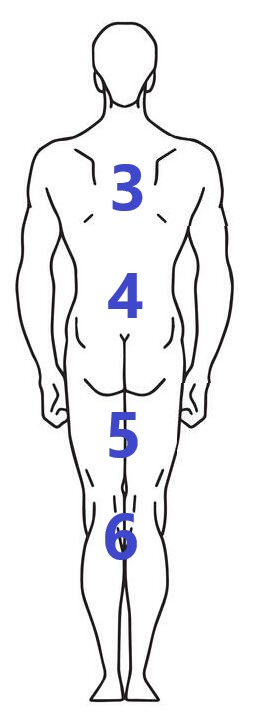
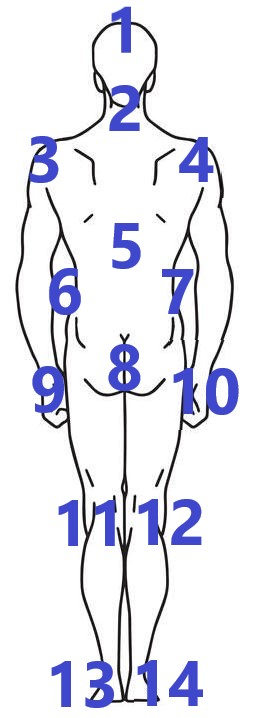
implement multi body diagrams in chatbot

diff --git a/site/chatbot/MessageParser.js b/site/chatbot/MessageParser.js
@@ -4,48 +4,95 @@ class MessageParser {
     constructor(actionProvider, state) {
       this.actionProvider = actionProvider;
       this.state = state;
+      this.errorState = ''
+      this.resultArr = []
+      this.maxResponse = { front: 16, back: 14, left: 8, right: 8 }
+    }
+
+    checkBadInput(message) {
+      if (message.toLowerCase() === 'n') {
+        this.resultArr = []
+      } else {
+        let points = message.replace(/\s+/g, '')
+        let re = /^(\d+(,\d+)*)?$/gm
+        if (!points.match(re)) {
+          this.errorState = 'BadInput'
+        } else {
+          let pointsArr = []
+          let isInvalid = false
+          points.split(',').forEach(point => {
+            let parsed = parseInt(point)
+            if (parsed >= 1 && parsed <= this.maxResponse[this.state.bodyPart]) {
+              pointsArr.push(parsed)
+            } else {
+              isInvalid = true
+            }
+          })
+          if (isInvalid) {
+            this.errorState = 'InvalidInput'
+          } else {
+            this.resultArr = pointsArr
+          }
+        }
+      }
+    }
+
+    postResult() {
+      this.state.painpoints.push(this.resultArr)
+      console.log('resultArray: ', this.state.painpoints)
+      axios['post'](`/api/engine/painanalysis`, { 
+        muscleache: this.state.muscleache,
+        needlesensation: this.state.needlesensation,
+        burningsensation: this.state.burningsensation,
+        numbsensation: this.state.numbsensation,
+        painpositions: this.state.painpoints
+      })
+      .then(response => {
+        if (response.statusText === 'OK') {
+          this.actionProvider.handlePainResult(response.data)
+        } else {
+          this.actionProvider.handleNoResult()
+        }
+      })
+      this.actionProvider.handleGoodbye()
+    }
+
+    takeAction(lastQuestion) {
+      if (this.errorState === 'BadInput') {
+        this.actionProvider.handleBadInput()
+      } else if (this.errorState === 'InvalidInput') {
+        this.actionProvider.handleInvalidInput()
+      } else if (!lastQuestion) {
+        let nextPart = 'front'
+        switch (this.state.step) {
+          case 6:
+            nextPart = 'back'
+            break
+          case 7:
+            nextPart = 'left'
+            break
+          case 8:
+            nextPart = 'right'
+            break
+          default:
+            break
+        }
+        this.actionProvider.handleNextDiagram(nextPart, this.resultArr)
+      } else {
+        this.postResult()
+      }
     }
   
     parse(message) {
       if (!this.state.userId) {
         this.actionProvider.handleUnauthenticated()
-      } else if (this.state.step >= 6) {
-        let points = message.replace(/\s+/g, '')
-        let re = /^(\d+(,\d+)*)?$/gm
-        if (!points.match(re)) {
-          this.actionProvider.handleBadInput()
-        } else {
-          let pointsArr = []
-          let invalid = false
-          points.split(',').forEach(point => {
-            let parsed = parseInt(point)
-            if (parsed >= 1 && parsed <= 10) {
-              pointsArr.push(parsed)
-            } else {
-              invalid = true
-            }
-          })
-          if (invalid) {
-            this.actionProvider.handleInvalidInput()
-          } else {
-            axios['post'](`/api/engine/painanalysis`, { 
-              muscleache: this.state.muscleache,
-              needlesensation: this.state.needlesensation,
-              burningsensation: this.state.burningsensation,
-              numbsensation: this.state.numbsensation,
-              spinalpos: pointsArr.some(r => [3,4].includes(r))
-            })
-            .then(response => {
-              if (response.statusText === 'OK') {
-                this.actionProvider.handlePainResult(response.data)
-              } else {
-                this.actionProvider.handleNoResult()
-              }
-            })
-            this.actionProvider.handleGoodbye()
-          }
-        }      
-      } 
+      } else if (this.state.step >= 6 && this.state.step < 9) {
+        this.checkBadInput(message)
+        this.takeAction(false)
+      } else {
+        this.checkBadInput(message)
+        this.takeAction(true)
+      }
     }
 }
 

diff --git a/site/chatbot/ActionProvider.js b/site/chatbot/ActionProvider.js
@@ -6,23 +6,37 @@ class ActionProvider {
     this.stateRef = stateRef;
   }
 
-  setChatbotMessage = (message, newstate) => {
+  setChatbotMessage = (message, newstate, isError=false) => {
       let stateKey = Object.keys(newstate).length === 1 ? Object.keys(newstate)[0] : null
       let stateValue = Object.values(newstate).length === 1 ? Object.values(newstate)[0] : null
-      if (stateKey && stateValue) {
-        this.setState((state) => ({
-          ...state,
-          [stateKey]: stateValue,
-          step: state.step + 1,
-          messages: [...state.messages, message]
-        }))
+      if (!isError) {
+        if (stateKey && stateValue) {
+          this.setState((state) => ({
+            ...state,
+            [stateKey]: stateValue,
+            step: state.step + 1,
+            messages: [...state.messages, message],
+          }))
+        } else {
+          this.setState((state) => ({
+            ...state,
+            step: state.step + 1,
+            messages: [...state.messages, message]
+          })
+        )}
       } else {
         this.setState((state) => ({
           ...state,
-          step: state.step + 1,
           messages: [...state.messages, message]
-        })
-      )}
+        }))
+      } 
+  }
+
+  setPainPosition = (newPos) => {
+    this.setState((state) => ({
+      ...state,
+      painpoints: [...state.painpoints, newPos]
+    }))
   }
 
   setClientMessage = (message) => {
@@ -53,7 +67,6 @@ class ActionProvider {
   }
 
   handleNo = () => {
-    console.log(this.stateRef)
     const reply = this.createClientMessage(this.stateRef.t('n'))
     this.setClientMessage(reply)
     if (this.stateRef.step === 1) {
@@ -73,6 +86,12 @@ class ActionProvider {
     } 
   }
 
+  handleNextDiagram = (nextPart, tmpResult) => {
+    const message = this.createChatbotMessage(this.stateRef.t('morediagram'), { withAvatar: false, delay: 500, widget: 'bodydiagram'})
+    this.setPainPosition(tmpResult)
+    this.setChatbotMessage(message, { bodyPart: nextPart })
+  }
+
   handleGoodbye = () => {
     const message = this.createChatbotMessage(this.stateRef.t('q5'))
     this.setChatbotMessage(message, {})
@@ -80,12 +99,12 @@ class ActionProvider {
 
   handleBadInput = () => {
     const message = this.createChatbotMessage(this.stateRef.t('e1'))
-    this.setChatbotMessage(message, {})
+    this.setChatbotMessage(message, {}, true)
   }
 
   handleInvalidInput = () => {
     const message = this.createChatbotMessage(this.stateRef.t('e2'))
-    this.setChatbotMessage(message, {})
+    this.setChatbotMessage(message, {}, true)
   }
 
   handleUnauthenticated = () => {

diff --git a/site/components/ChatBotBodyDiagram/ChatBotBodyDiagram.js b/site/components/ChatBotBodyDiagram/ChatBotBodyDiagram.js
@@ -5,8 +5,10 @@ import styles from './ChatBotBodyDiagram.module.css'
 import Image from "next/image";
 import bodyback from '../../public/images/bodyback.jpg'
 import bodyfront from '../../public/images/bodyfront.jpg'
+import bodyLeft from '../../public/images/bodyleft.jpg'
+import bodyRight from '../../public/images/bodyright.jpg'
 
-const ChatBotBodyDiagram = ({ infoBox, setState }) => {
+const ChatBotBodyDiagram = ({ infoBox, bodyPart, setState }) => {
   useEffect(() => {
     setState((state) => ({
       ...state,
@@ -23,12 +25,30 @@ const ChatBotBodyDiagram = ({ infoBox, setState }) => {
         show={
           <ChatBotInfoBox setState={setState}>
             <div className={styles.flexcontainer}>
+              {
+                bodyPart === 'front' &&
                 <div className={styles.flexchild}>
                     <Image src={bodyfront} alt="Body Front" width={130} height={400} />
                 </div>
+              }
+              {
+                bodyPart === 'back' &&
                 <div className={styles.flexchild}>
                     <Image src={bodyback} alt="Body Back" width={130} height={400} />
                 </div>
+              }
+              {
+                bodyPart === 'left' &&
+                <div className={styles.flexchild}>
+                    <Image src={bodyLeft} alt="Body Left" width={130} height={400} />
+                </div>
+              }
+              {
+                bodyPart === 'right' &&
+                <div className={styles.flexchild}>
+                    <Image src={bodyRight} alt="Body Right" width={130} height={400} />
+                </div>
+              }
             </div>
           </ChatBotInfoBox>
         }

diff --git a/profile/src/events/listeners/analysis-completed-listener.ts b/profile/src/events/listeners/analysis-completed-listener.ts
@@ -9,7 +9,7 @@ export class AnalysisCompletedListener extends Listener<AnalysisCompletedEvent> 
   queueGroupName = deviceQueueGroupName;
 
   async onMessage(data: AnalysisCompletedEvent['data'], msg: Message) {
-    const { userId, muscleache, burningsensation, numbsensation, needlesensation, spinalpos, diagnosis } = data;
+    const { userId, muscleache, burningsensation, numbsensation, needlesensation, painpositions, diagnosis } = data;
     const profile = await Profile.findOne({ userId });
 
     if (!profile) {
@@ -19,6 +19,13 @@ export class AnalysisCompletedListener extends Listener<AnalysisCompletedEvent> 
     const exitstingPainConditions = await PainConditions.findById(userId);
     if (exitstingPainConditions) {
       console.log('Already done analysis');
+      exitstingPainConditions.muscleache = muscleache
+      exitstingPainConditions.needlesensation = needlesensation
+      exitstingPainConditions.burningsensation = burningsensation
+      exitstingPainConditions.numbsensation = numbsensation
+      exitstingPainConditions.painpositions = painpositions
+      exitstingPainConditions.diagnosis = diagnosis
+      await exitstingPainConditions.save()
       msg.ack();
     } else {
       const painConditions = PainConditions.build({
@@ -27,7 +34,7 @@ export class AnalysisCompletedListener extends Listener<AnalysisCompletedEvent> 
         needlesensation: needlesensation,
         burningsensation: burningsensation,
         numbsensation: numbsensation,
-        spinalpos: spinalpos,
+        painpositions: painpositions,
         diagnosis: diagnosis
       });
       try {

diff --git a/profile/src/models/painconditions.ts b/profile/src/models/painconditions.ts
@@ -6,7 +6,7 @@ interface PainConditionsAttrs {
     needlesensation: boolean,
     burningsensation: boolean,
     numbsensation: boolean,
-    spinalpos: boolean,
+    painpositions: number[],
     diagnosis: string[]
 }
 
@@ -16,7 +16,7 @@ export interface PainConditionsDoc extends mongoose.Document {
     needlesensation: boolean,
     burningsensation: boolean,
     numbsensation: boolean,
-    spinalpos: boolean,
+    painpositions: number[],
     diagnosis: string[]
 }
 
@@ -50,10 +50,10 @@ const painConditionsSchema = new mongoose.Schema(
             required: true,
             default: false
         },
-        spinalpos: {
-            type: Boolean,
+        painpositions: {
+            type: [Number],
             required: true,
-            default: false
+            default: []
         },
         diagnosis: {
             type: [String],

diff --git a/site/chatbot/config.js b/site/chatbot/config.js
@@ -43,6 +43,7 @@ const config = {
         numbsensation: false,
         step: 1,
         infoBox: '',
+        bodyPart: 'front',
         painpoints: [],
     },
     widgets: [
@@ -53,7 +54,7 @@ const config = {
         {
           widgetName: "bodydiagram",
           widgetFunc: (props) => <ChatBotBodyDiagram {...props} />,
-          mapStateToProps: ["infoBox"]
+          mapStateToProps: ["infoBox", "bodyPart"]
         }
     ]
 };

diff --git a/site/components/ChatBotBodyDiagram/ChatBotBodyDiagram.module.css b/site/components/ChatBotBodyDiagram/ChatBotBodyDiagram.module.css
@@ -1,9 +1,9 @@
 .flexcontainer {
     display: flex;
+    align-items: center;
+    justify-content: center;
 }
 
 .flexchild {
-    flex: 1;
-    border: 2px solid yellow;
-    align-items: center;
+    display: block;
 }  
